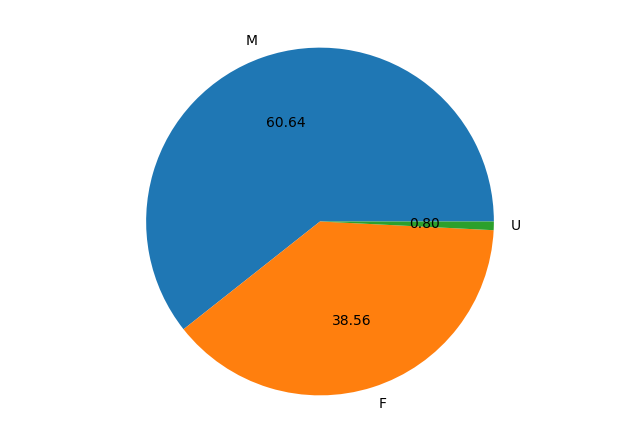
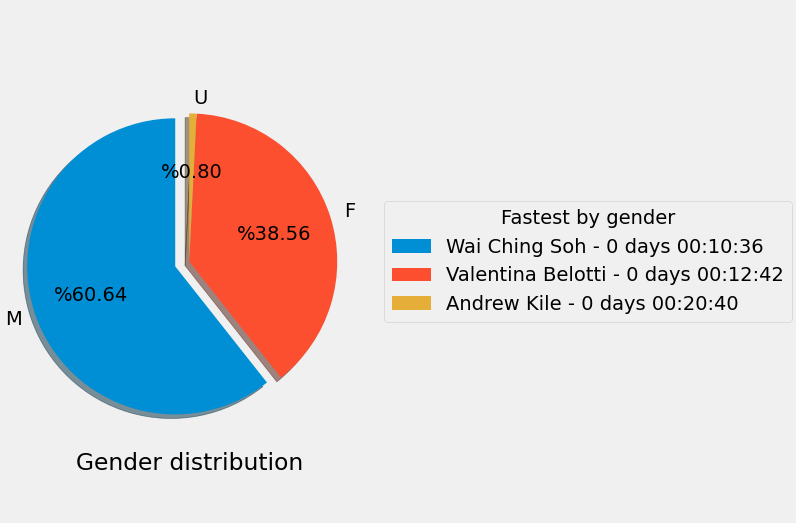
Updated tutorial and gender pie application

diff --git a/docs/EmpireStateRunUp/empirestaterunup/apps.py b/docs/EmpireStateRunUp/empirestaterunup/apps.py
@@ -17,7 +17,8 @@ from textual.widgets import DataTable, Footer, Header, Label, Button, MarkdownVi
 import matplotlib.pyplot as plt
 
 from empirestaterunup.analyze import SUMMARY_METRICS, get_5_number, count_by_age, count_by_gender, count_by_wave, \
-    dt_to_sorted_dict, get_outliers, age_bins, time_bins, get_country_counts, better_than_median_waves
+    dt_to_sorted_dict, get_outliers, age_bins, time_bins, get_country_counts, better_than_median_waves, FastestFilters, \
+    find_fastest
 from empirestaterunup.data import load_data, df_to_list_of_tuples, load_country_details, \
     lookup_country_by_code, CountryColumns, RaceFields, series_to_list_of_tuples
 
@@ -288,7 +289,7 @@ class Plotter:
     def plot_gender(self):
         series = self.df[RaceFields.gender.value].value_counts()
         fig, ax = plt.subplots(layout='constrained')
-        ax.pie(
+        wedges, texts, auto_texts = ax.pie(
             series.values,
             labels=series.keys(),
             autopct="%%%.2f",
@@ -298,6 +299,13 @@ class Plotter:
         )
         ax.set_title = "Gender participation"
         ax.set_xlabel('Gender distribution')
+        # Annotate the gender distribution with the fastest runners by gender
+        fastest = find_fastest(self.df, FastestFilters.Gender)
+        fastest_legend = [f"{name} - {details['time']}" for name, details in fastest.items()]
+        ax.legend(wedges, fastest_legend,
+                  title="Fastest by gender",
+                  loc="center left",
+                  bbox_to_anchor=(1, 0, 0.5, 1))
 
 
 class BrowserApp(App):

diff --git a/docs/EmpireStateRunUp/TUTORIAL.md b/docs/EmpireStateRunUp/TUTORIAL.md
@@ -452,7 +452,7 @@ import unittest
 from pandas import DataFrame
 
 from empirestaterunup.analyze import get_country_counts
-from empirestaterunup import load_data
+from empirestaterunup.data import load_data
 
 
 class AnalyzeTestCase(unittest.TestCase):
@@ -748,9 +748,11 @@ The [simple_plot](empirestaterunup/apps.py) application offers a few plot graphi
 The class `Plotter` does all the heavy lifting
 
 ```python
+# Not all imports shown, but enough to explain this code
 from pathlib import Path
-from empirestaterunup import load_data, RaceFields
-
+from empirestaterunup.data import load_data, RaceFields
+from empirestaterunup.analyze import find_fastest, FastestFilters
+import matplotlib.pyplot as plt
 
 class Plotter:
 
@@ -759,35 +761,59 @@ class Plotter:
 
     def plot_age(self, gtype: str):
         if gtype == 'box':
-            self.df[RaceFields.age.value].plot.box(
-                title="Age details",
-                grid=True,
-                color={
-                    "boxes": "DarkGreen",
-                    "whiskers": "DarkOrange",
-                    "medians": "DarkBlue",
-                    "caps": "Gray",
-                }
-            )
+            series = self.df[RaceFields.age.value]
+            fig, ax = plt.subplots(layout='constrained')
+            ax.boxplot(series)
+            ax.set_title("Age details")
+            ax.set_ylabel('Years')
+            ax.set_xlabel('Age')
+            ax.grid(True)
         elif gtype == 'hist':
-            self.df[RaceFields.age.value].plot.hist(
-                title="Age details",
-                grid=True,
-                color='k'
-            )
+            series = self.df[RaceFields.age.value]
+            fig, ax = plt.subplots(layout='constrained')
+            n, bins, patches = ax.hist(series, density=False, facecolor='C0', alpha=0.75)
+            ax.set_xlabel('Age [years]')
+            ax.set_ylabel('Count')
+            ax.set_title(f'Age details for {series.shape[0]} racers\nBins={len(bins)}')
+            ax.grid(True)
 
     def plot_country(self):
-        self.df[RaceFields.country.value].value_counts().plot.barh(
-            title="Participants per country",
-            stacked=True
+        series = self.df[RaceFields.country.value].value_counts()
+        series.sort_values(inplace=True)
+        fig, ax = plt.subplots(layout='constrained')
+        rects = ax.barh(series.keys(), series.values)
+        ax.bar_label(
+            rects,
+            [value for value in series.values],
+            padding=5,
+            color='black',
+            fontweight='bold'
         )
+        ax.set_title = "Participants per country"
+        ax.set_stacked = True
+        ax.set_ylabel('Country')
+        ax.set_xlabel('Count per country')
 
     def plot_gender(self):
-        self.df[RaceFields.gender.value].value_counts().plot.pie(
-            title="Gender participation",
-            subplots=True,
-            autopct="%.2f"
+        series = self.df[RaceFields.gender.value].value_counts()
+        fig, ax = plt.subplots(layout='constrained')
+        wedges, texts, auto_texts = ax.pie(
+            series.values,
+            labels=series.keys(),
+            autopct="%%%.2f",
+            shadow=True,
+            startangle=90,
+            explode=(0.1, 0, 0)
         )
+        ax.set_title = "Gender participation"
+        ax.set_xlabel('Gender distribution')
+        # Legend with the fastest runners by gender
+        fastest = find_fastest(self.df, FastestFilters.Gender)
+        fastest_legend = [f"{name} - {details['time']}" for name, details in fastest.items()]
+        ax.legend(wedges, fastest_legend,
+                  title="Fastest by gender",
+                  loc="center left",
+                  bbox_to_anchor=(1, 0, 0.5, 1))
 ```
 
 Each method basically ingest a Panda Dataframe to produce the desired plot.
